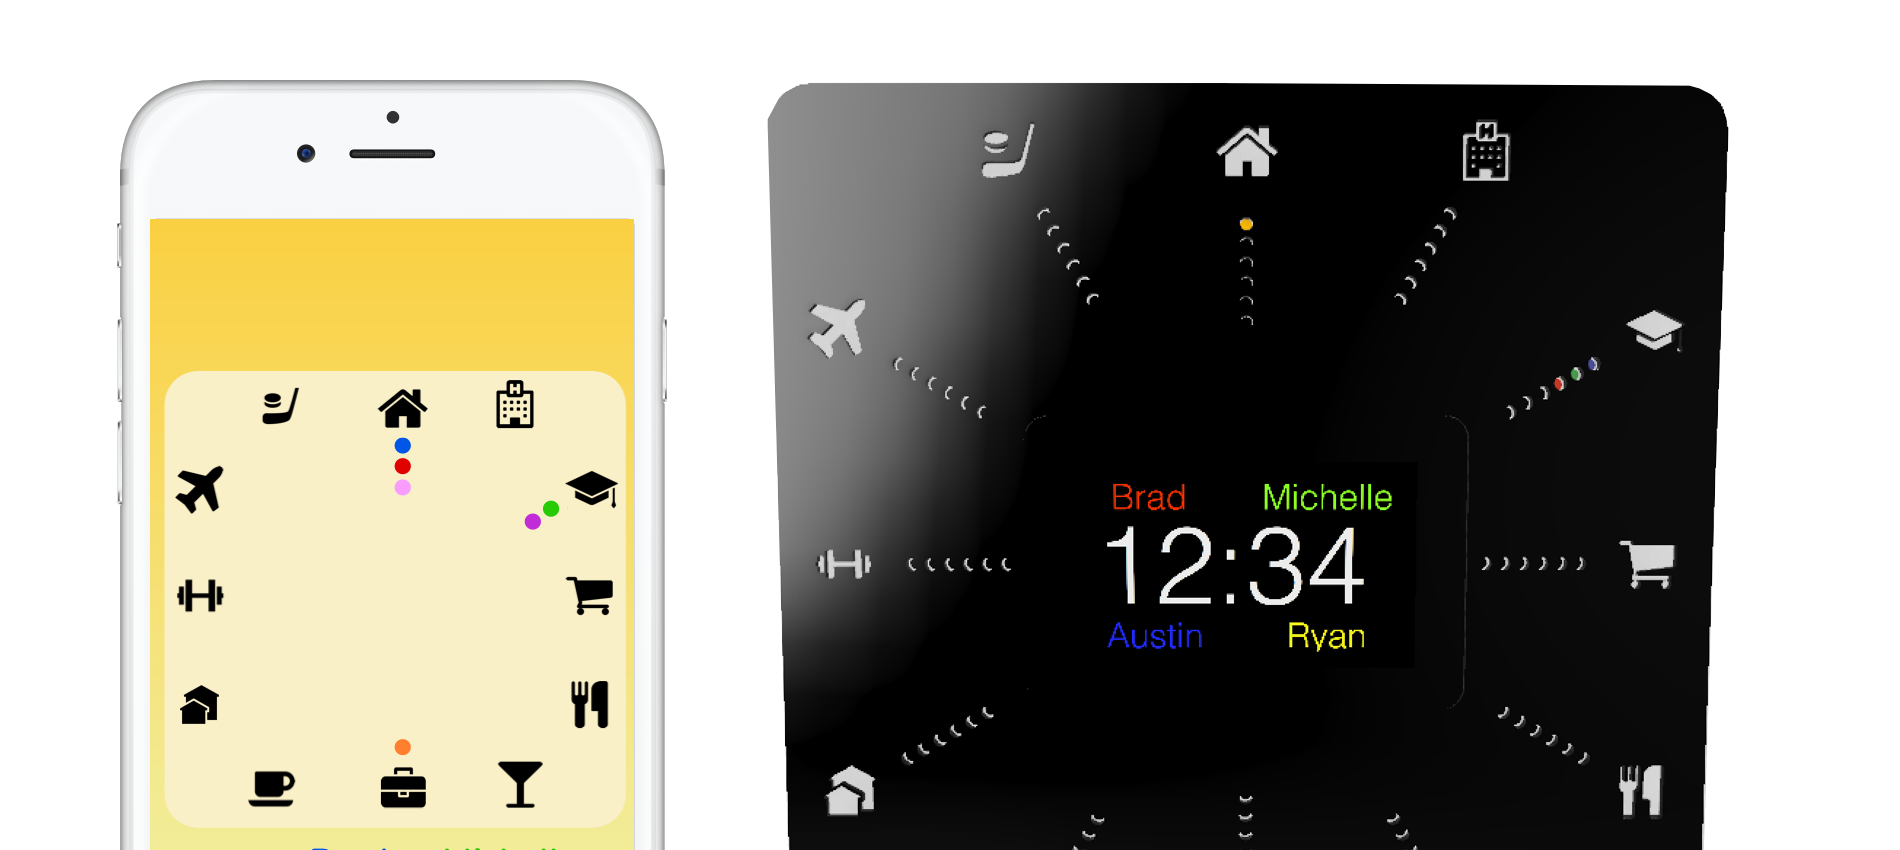
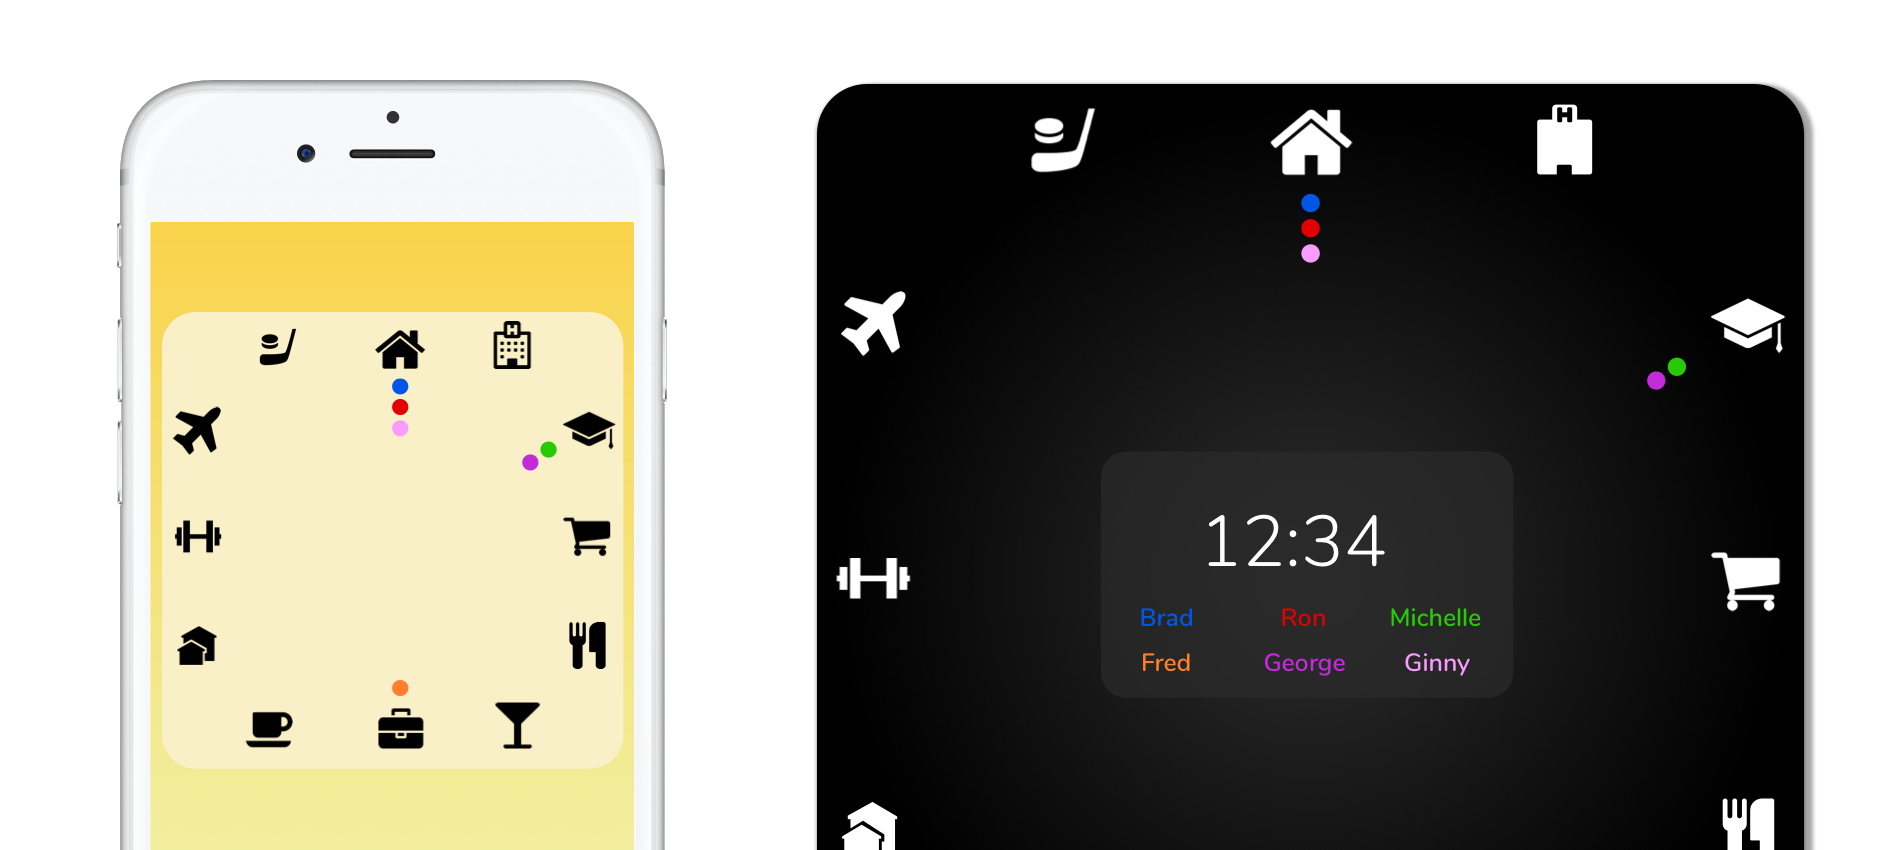
Deleted unneeded photos, changed descriptions and photos.

diff --git a/index.html b/index.html
@@ -21,6 +21,8 @@
   <link rel="stylesheet" href="css/vendor.css">
   <link rel="stylesheet" href="css/main.css">
 
+  <script src="https://use.fontawesome.com/0105a44ad9.js"></script>
+
   <!-- script
   ================================================== -->
   <script src="js/modernizr.js"></script>
@@ -68,7 +70,7 @@
   <header class="main-header">
 
     <div class="logo">
-      <a href="index.html">famlink</a>
+      <a href="#">famlink</a>
     </div>
 
   </header>
@@ -115,7 +117,7 @@
             </p>
 
             <p class="detail-text animate-this">
-              <i class="icon-detail icon-places-home-3"></i>
+              <i class="icon-detail icon-user-heart"></i>
               <span class="detail-heading">Peace of mind for your family</span><br/>
               Mom doesn't have to blast your phone with texts and calls. Quickly know if dad's still at work or if your brother's at hockey practice. Famlink handles everything for you, giving your family the peace of mind they deserve.
             </p>
@@ -150,7 +152,7 @@
 
       <div class="media-wrap">
         <div class="media animate-this"  data-animate="fadeInRight" style="text-align:center">
-          <img src="images/clock-pic.png" alt="" style="width: 50%"/>
+          <img src="images/clock-render.png" alt="" style="width: 70%"/>
         </div>
       </div>
 
@@ -159,7 +161,7 @@
         <h5 class="animate-this" data-animate="fadeInLeft">At a glance,</h5>
         <h2 class="animate-this" data-animate="fadeInLeft">See where everyone is</h2>
 
-        <p class="animate-this" data-animate="fadeInLeft">The Famlink Clock features a design that puts a spin on the traditional clock. Around the Clock are location icons, with people represented as a colored light pointing to where they're currently at. This piece of hardware makes a great addition to your living room shelf or kitchen counter. Don't go to the gym? Switch that icon with a different one to suit your family's needs.</p>
+        <p class="animate-this" data-animate="fadeInLeft">The Famlink Clock is a physical clock that will make a great addition to your living room shelf or kitchen counter. It features a design that puts a spin on the traditional clock. Around the Clock are location icons, with people represented as a colored light pointing to where they're currently at. Don't go to the gym? Switch that icon with a different one to suit your family's needs.</p>
 
       </div>
 
@@ -175,7 +177,7 @@
 
       <div class="media-wrap">
         <div class="media animate-this"  data-animate="fadeInLeft" style="text-align:center">
-          <img src="images/app-screens.png" alt="" style="width: 70%">
+          <img src="images/chat-screen.png" alt="" style="width: 45%">
         </div>
       </div>
 
@@ -184,7 +186,7 @@
         <h5 class="animate-this" data-animate="fadeInRight">On the go? No problemo!</h5>
         <h2 class="animate-this" data-animate="fadeInRight">Keep in touch with the app</h2>
 
-        <p class="animate-this" data-animate="fadeInRight">Set up your addresses for each of the 12 locations and the app will take care of the rest, automatically updating your location status for you. Enable push notifications so you know when someone's at the grocery store, and send them a quick message in the group chat. (Note that you can use the app alone, but the Clock will need the app to work!)
+        <p class="animate-this" data-animate="fadeInRight">Set up your addresses for each of the 12 locations and the app will take care of the rest, automatically updating your location status for you. Enable  notifications so you know when someone's at the grocery store, and send them a quick message in the group chat. (Note that you can also use the app alone, but the Clock will need the app to work!)
         </p>
 
   </div>
@@ -209,12 +211,17 @@
       <div class="col-six">
         <img src="images/brad.png" alt="" class="team-pic">
         <h5>Brad Moon </h5>
-        <p>CEO, Electronics Lead</p>
+        <p>CEO, Electronics Lead <br/>
+          <a href="http://twitter.com/brad_83moon"><i class="fa fa-lg fa-twitter" aria-hidden="true"></i></a>
+        </p>
       </div>
       <div class="col-six">
         <img src="images/michelle.png" alt="" class="team-pic">
         <h5>Michelle Mabuyo </h5>
-        <p>Software Lead</p>
+        <p>Software Lead <br/>
+          <a href="http://michellemabuyo.me"><i class="fa fa-lg fa-home" aria-hidden="true"></i></a>
+          <a href="http://twitter.com/MichelleMabuyo"><i class="fa fa-lg fa-twitter" aria-hidden="true"></i></a>
+        </p>
       </div>
 
     </div>
@@ -301,7 +308,8 @@
 <div class="footer-bottom">
 
   <div class="copyright">
-    <span>© Copyright Famlink 2017.</span>
+    <span>© Copyright <span class="body-light">Famlink</span> 2017.</span>
+    <span>Icons designed by <a href='http://www.freepik.com/free-vector/nice-avatars-business-people_945834.htm' class="body-light">Freepik</a></span>
     <span>Design bootstrapped with <a href="http://www.styleshout.com/" class="body-light">styleshout</a></span>
   </div>
 </div>

diff --git a/css/main.css b/css/main.css
@@ -85,7 +85,7 @@ body {
  * ------------------------------------------------------------------- */
 a,
 a:visited {
-	color: #ed254d;
+	color: #2e86ab;
 	-moz-transition: all 0.3s ease-in-out;
 	-o-transition: all 0.3s ease-in-out;
 	-webkit-transition: all 0.3s ease-in-out;
@@ -1675,7 +1675,7 @@ header .logo a {
 
 .info-entry:last-child .info-entry-content {
 	padding-top: 5rem;
-	padding-bottom: 13.2rem;
+	padding-bottom: 20rem;
 }
 
 /* -------------------------------------------------------------------
@@ -2121,10 +2121,15 @@ header .logo a {
 	text-align: center;
 }
 
+#testimonials .testimonial-content {
+	max-width: 800px;
+}
+
 #testimonials h2 {
 	margin-bottom: 3.6rem;
 	padding-bottom: 3.6rem;
 	position: relative;
+	font-family: "Nunito", sans-serif;
 }
 
 #testimonials h2::after {
@@ -2319,7 +2324,7 @@ header .logo a {
  *
  * ------------------------------------------------------------------- */
 #subscribe {
-	background: #00132b;
+	background: #2e86ab;
 	padding: 10.2rem 0 6rem;
 	text-align: center;
 	color: #FFFFFF;
@@ -2371,7 +2376,7 @@ header .logo a {
 }
 
 #subscribe h2 {
-	color: white;
+	color: #f9cf51;
 }
 
 /* -------------------------------------------------------------------
@@ -2456,7 +2461,7 @@ footer a:active {
 }
 
 .footer-social-wrap {
-	background: #111;
+	background: #00132b;
 }
 
 .footer-social-list {

diff --git a/js/main.js b/js/main.js
@@ -267,8 +267,8 @@
 	//  5: 'This email address looks fake or invalid. Please enter a real email address'
 
 	$.ajaxChimp.translations.es = {
-	  'submit': 'Submitting...',
-	  0: '<i class="fa fa-check"></i> We have sent you a confirmation email',
+	  'submit': 'Subscribing...',
+	  0: '<i class="fa fa-check"></i> We have sent you a confirmation email. Thank you!',
 	  1: '<i class="fa fa-warning"></i> You must enter a valid e-mail address.',
 	  2: '<i class="fa fa-warning"></i> E-mail address is not valid.',
 	  3: '<i class="fa fa-warning"></i> E-mail address is not valid.',
